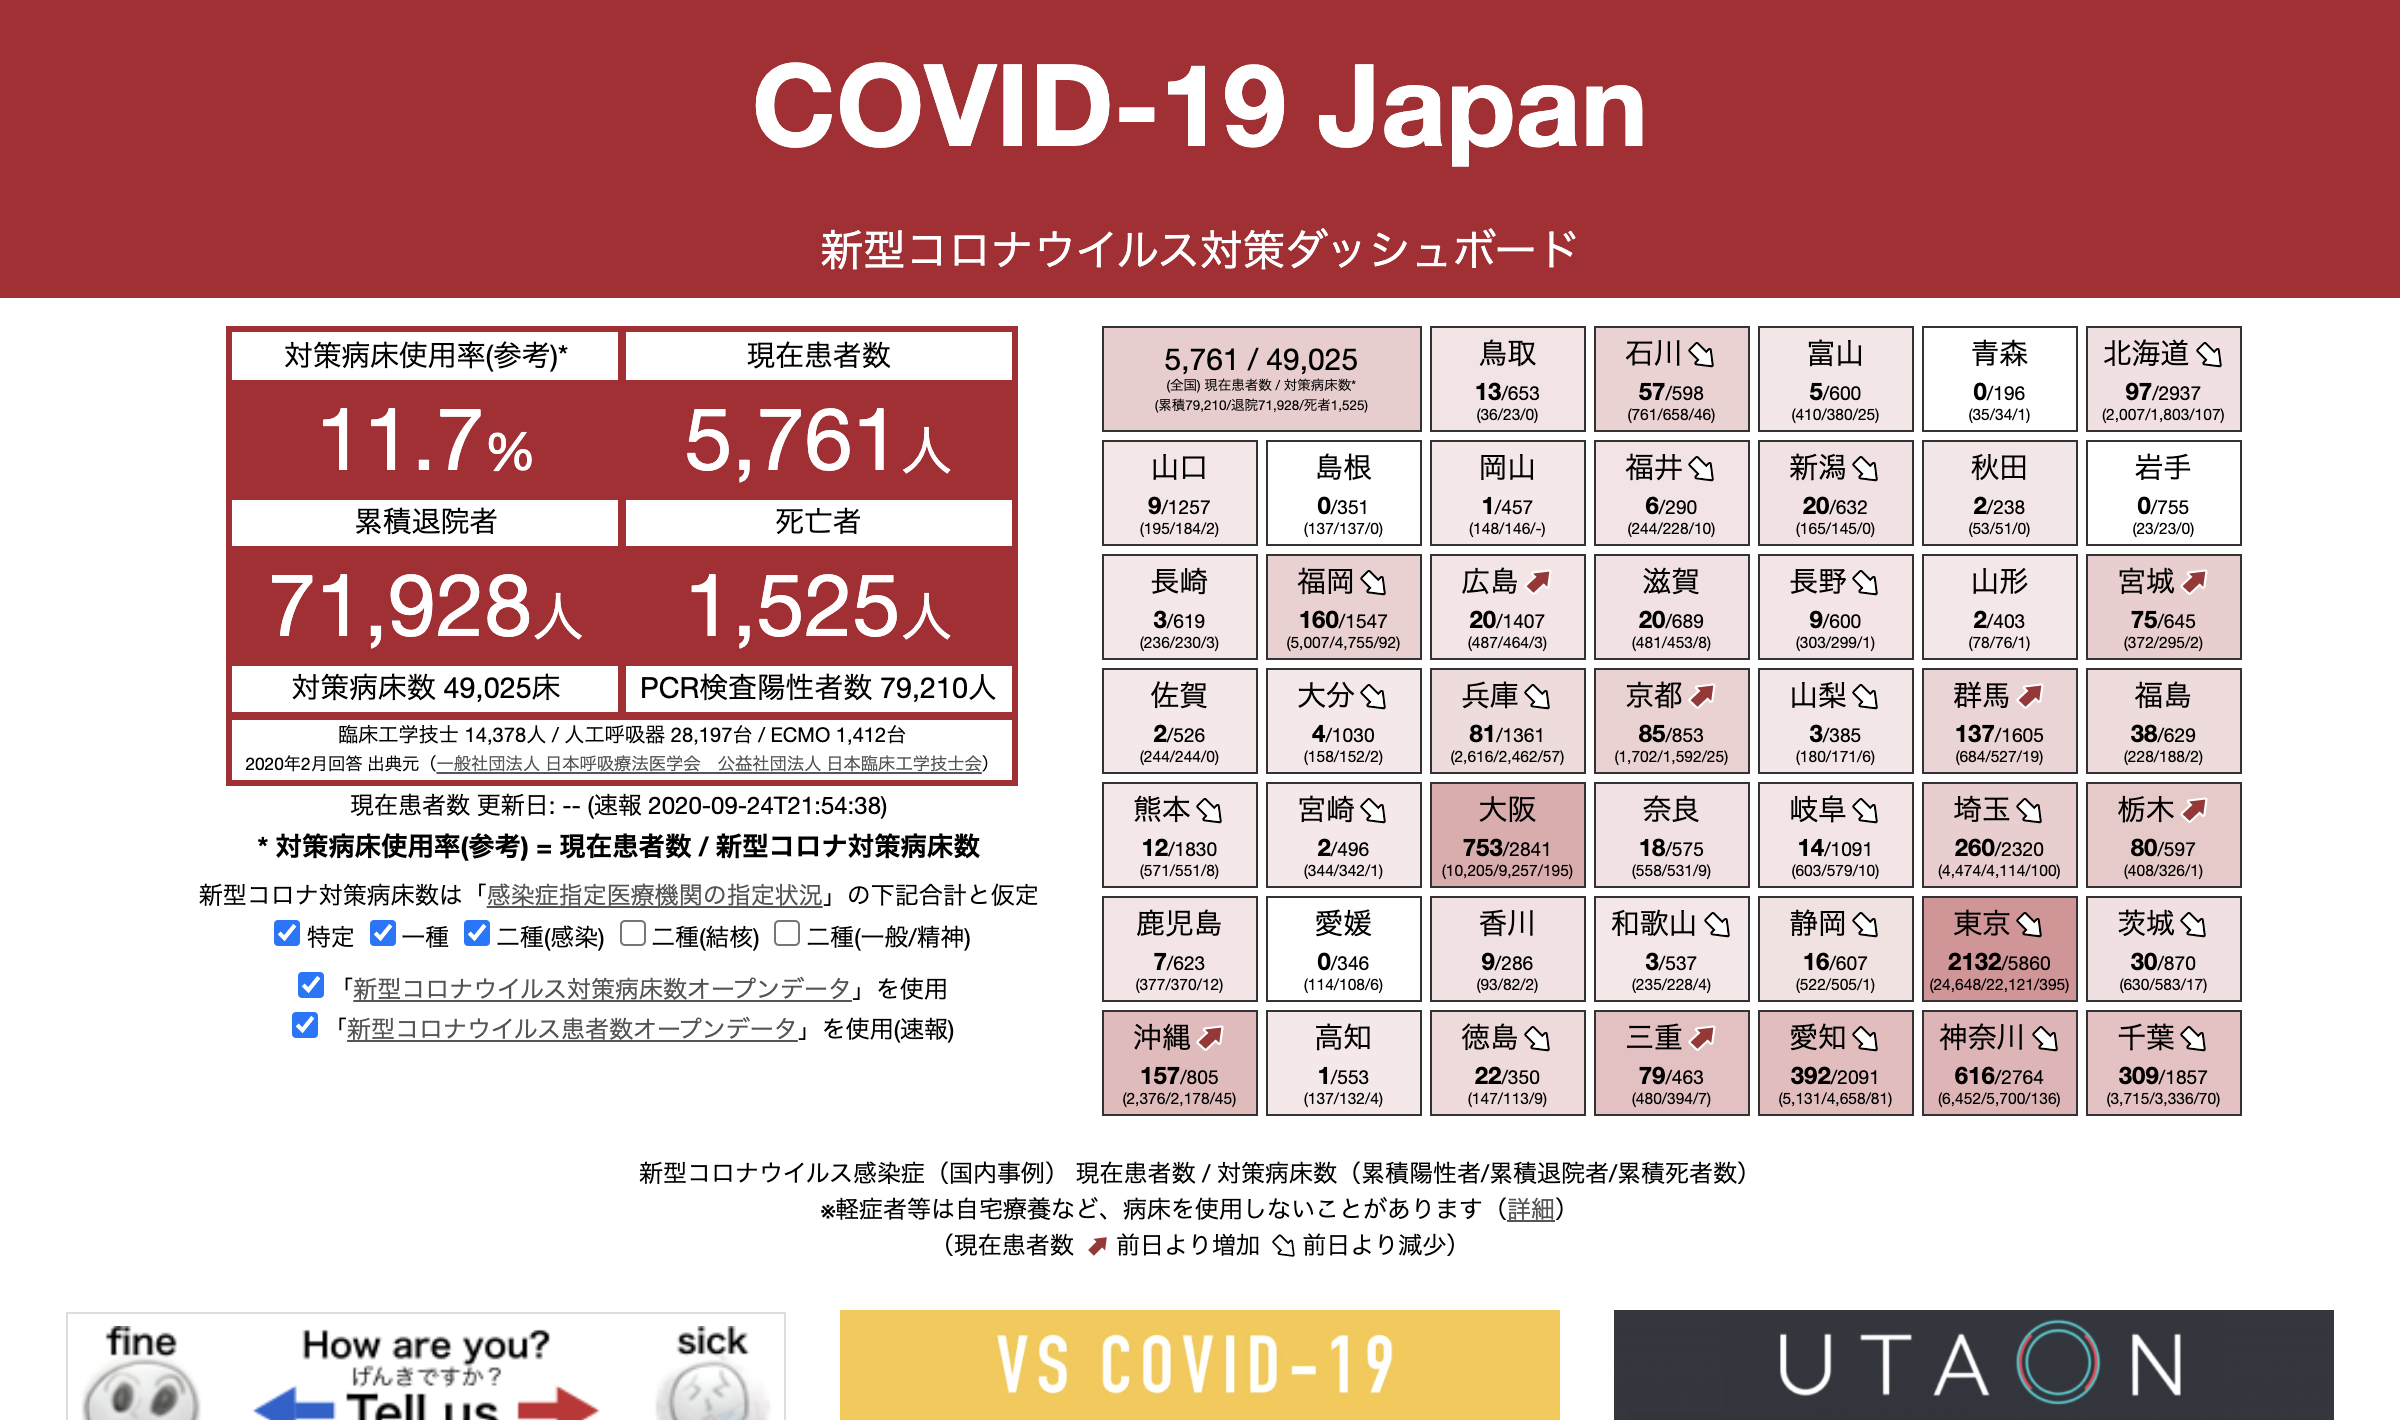
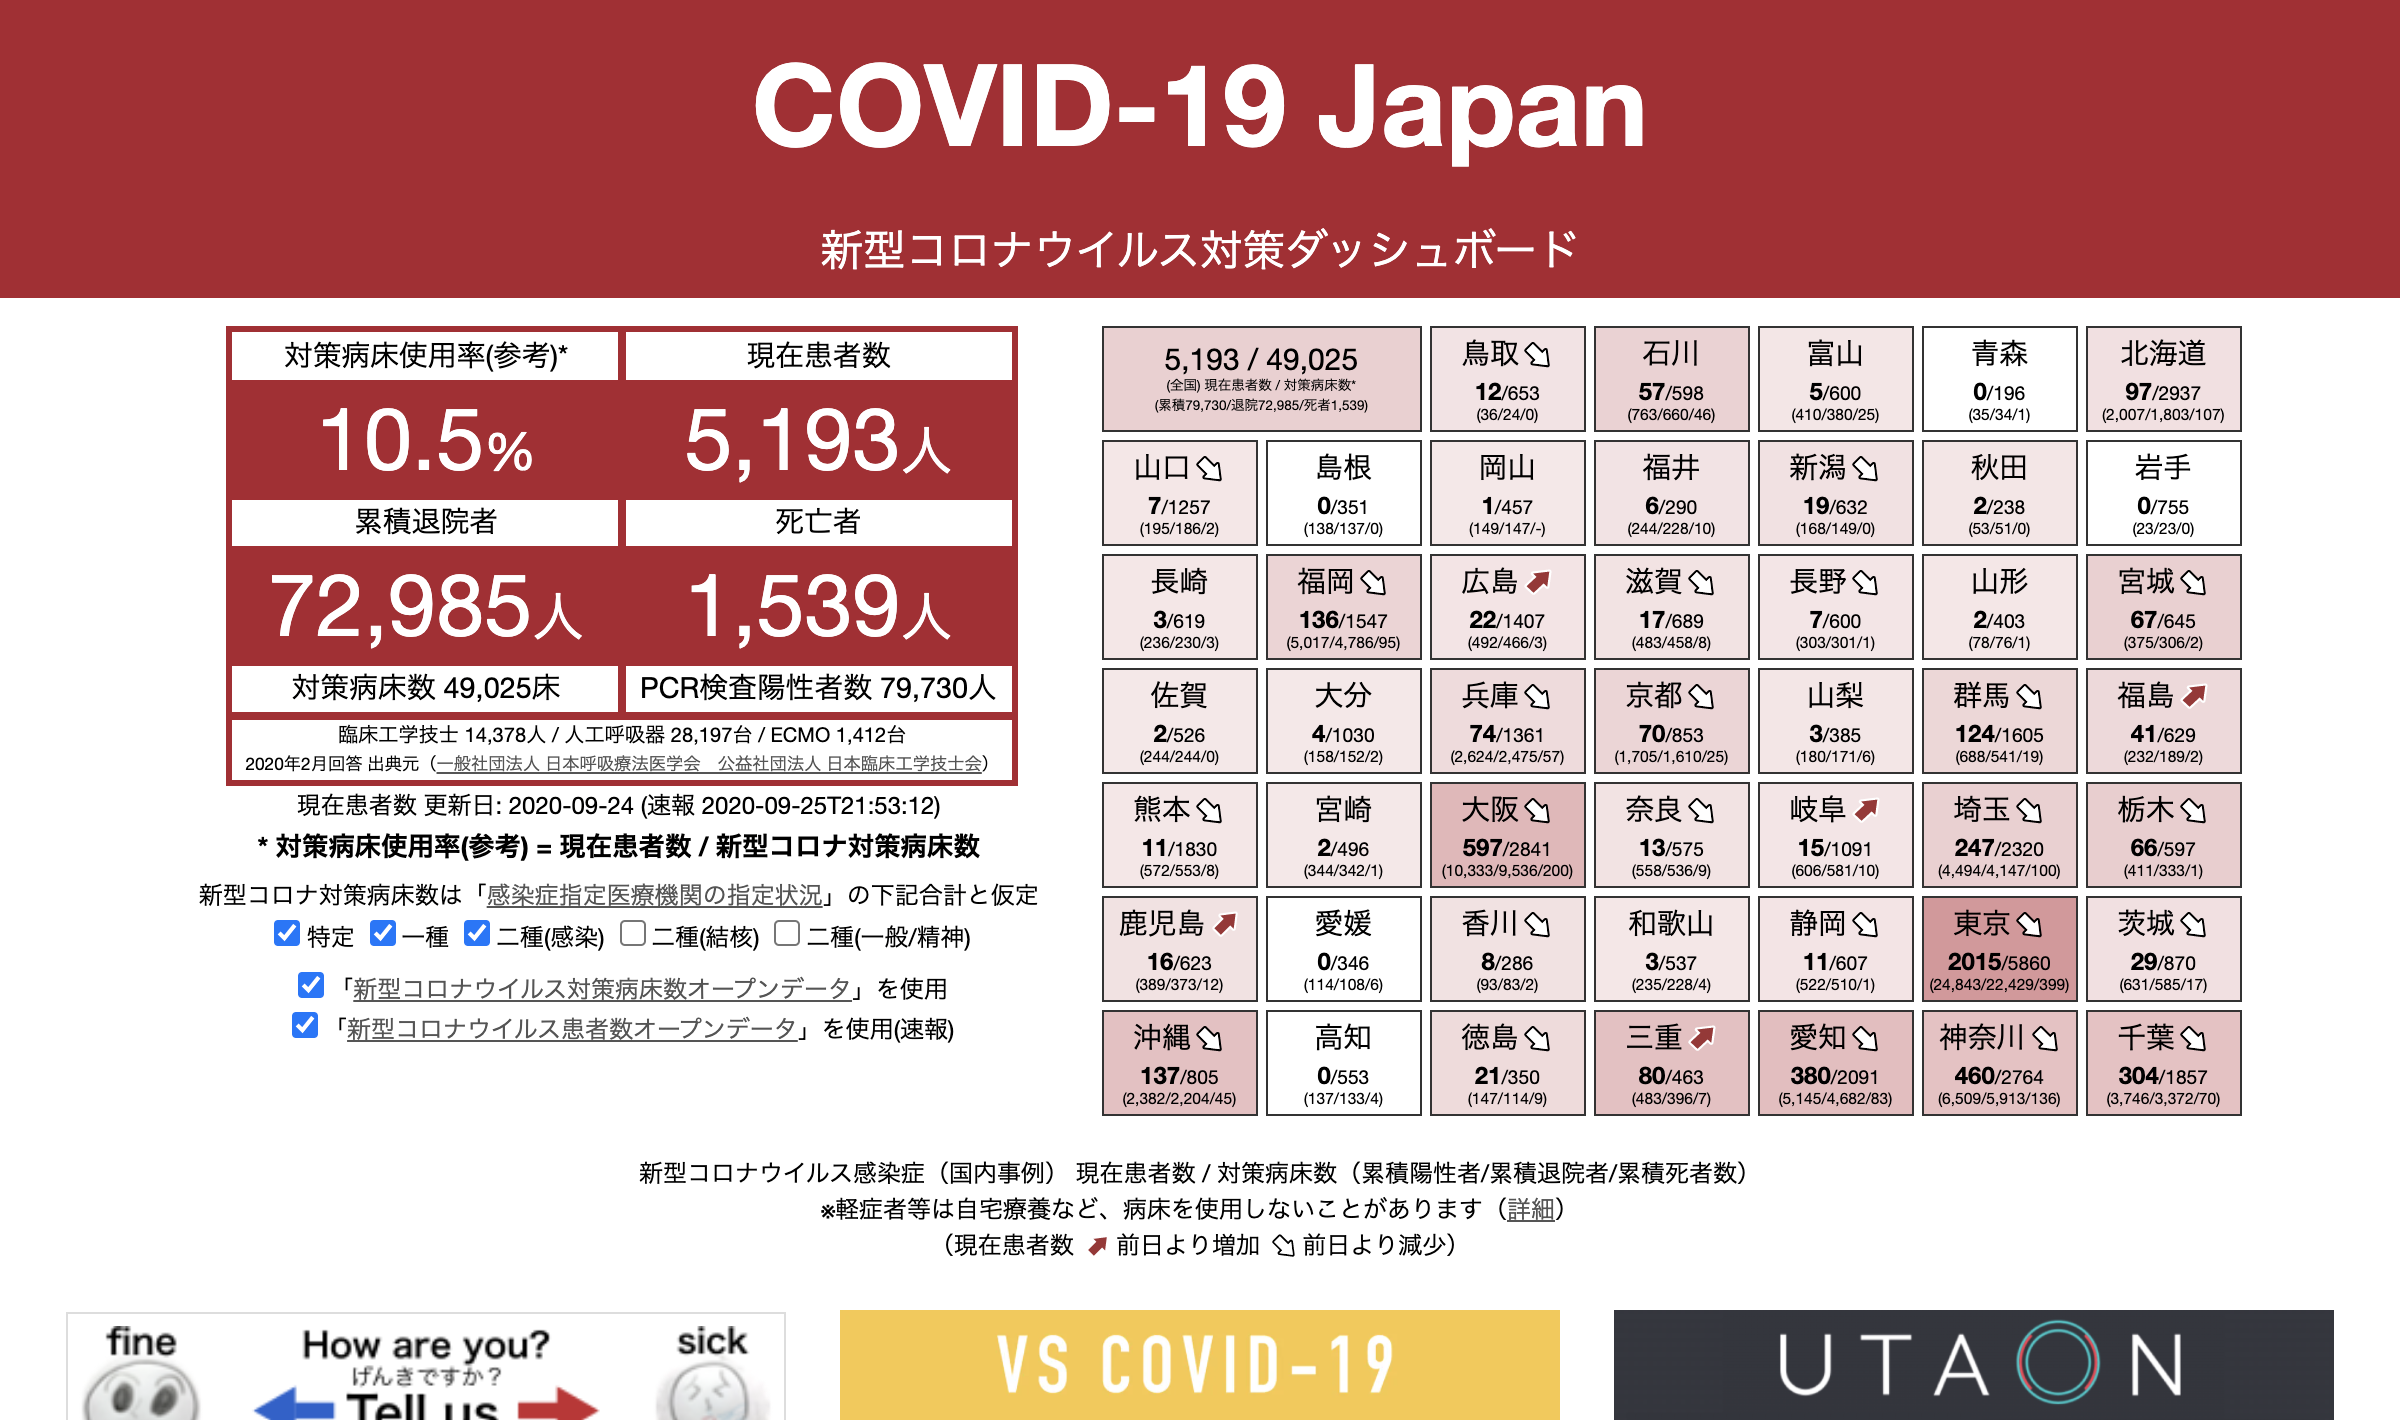
データ更新

diff --git a/index.html b/index.html
@@ -19,8 +19,8 @@ gtag('config', 'UA-162141832-1')
 <link rel="apple-touch-icon" href="covid19japan-leargeicon.png"/>
 <meta name="msapplication-square310x310logo" content="covid19japan-leargeicon.png"/>
 <meta name="twitter:card" content="summary_large_image"/>
-<meta property="og:image"  content="https://www.stopcovid19.jp/ogp/covid19japan_ogp_20200924234225.png"/>
-<meta name="twitter:image" content="https://www.stopcovid19.jp/ogp/covid19japan_ogp_20200924234225.png"/>
+<meta property="og:image"  content="https://www.stopcovid19.jp/ogp/covid19japan_ogp_20200925233652.png"/>
+<meta name="twitter:image" content="https://www.stopcovid19.jp/ogp/covid19japan_ogp_20200925233652.png"/>
 
 <meta name="viewport" content="width=device-width, initial-scale=1.0"/>
 <meta name="format-detection" content="telephone=no"/>
